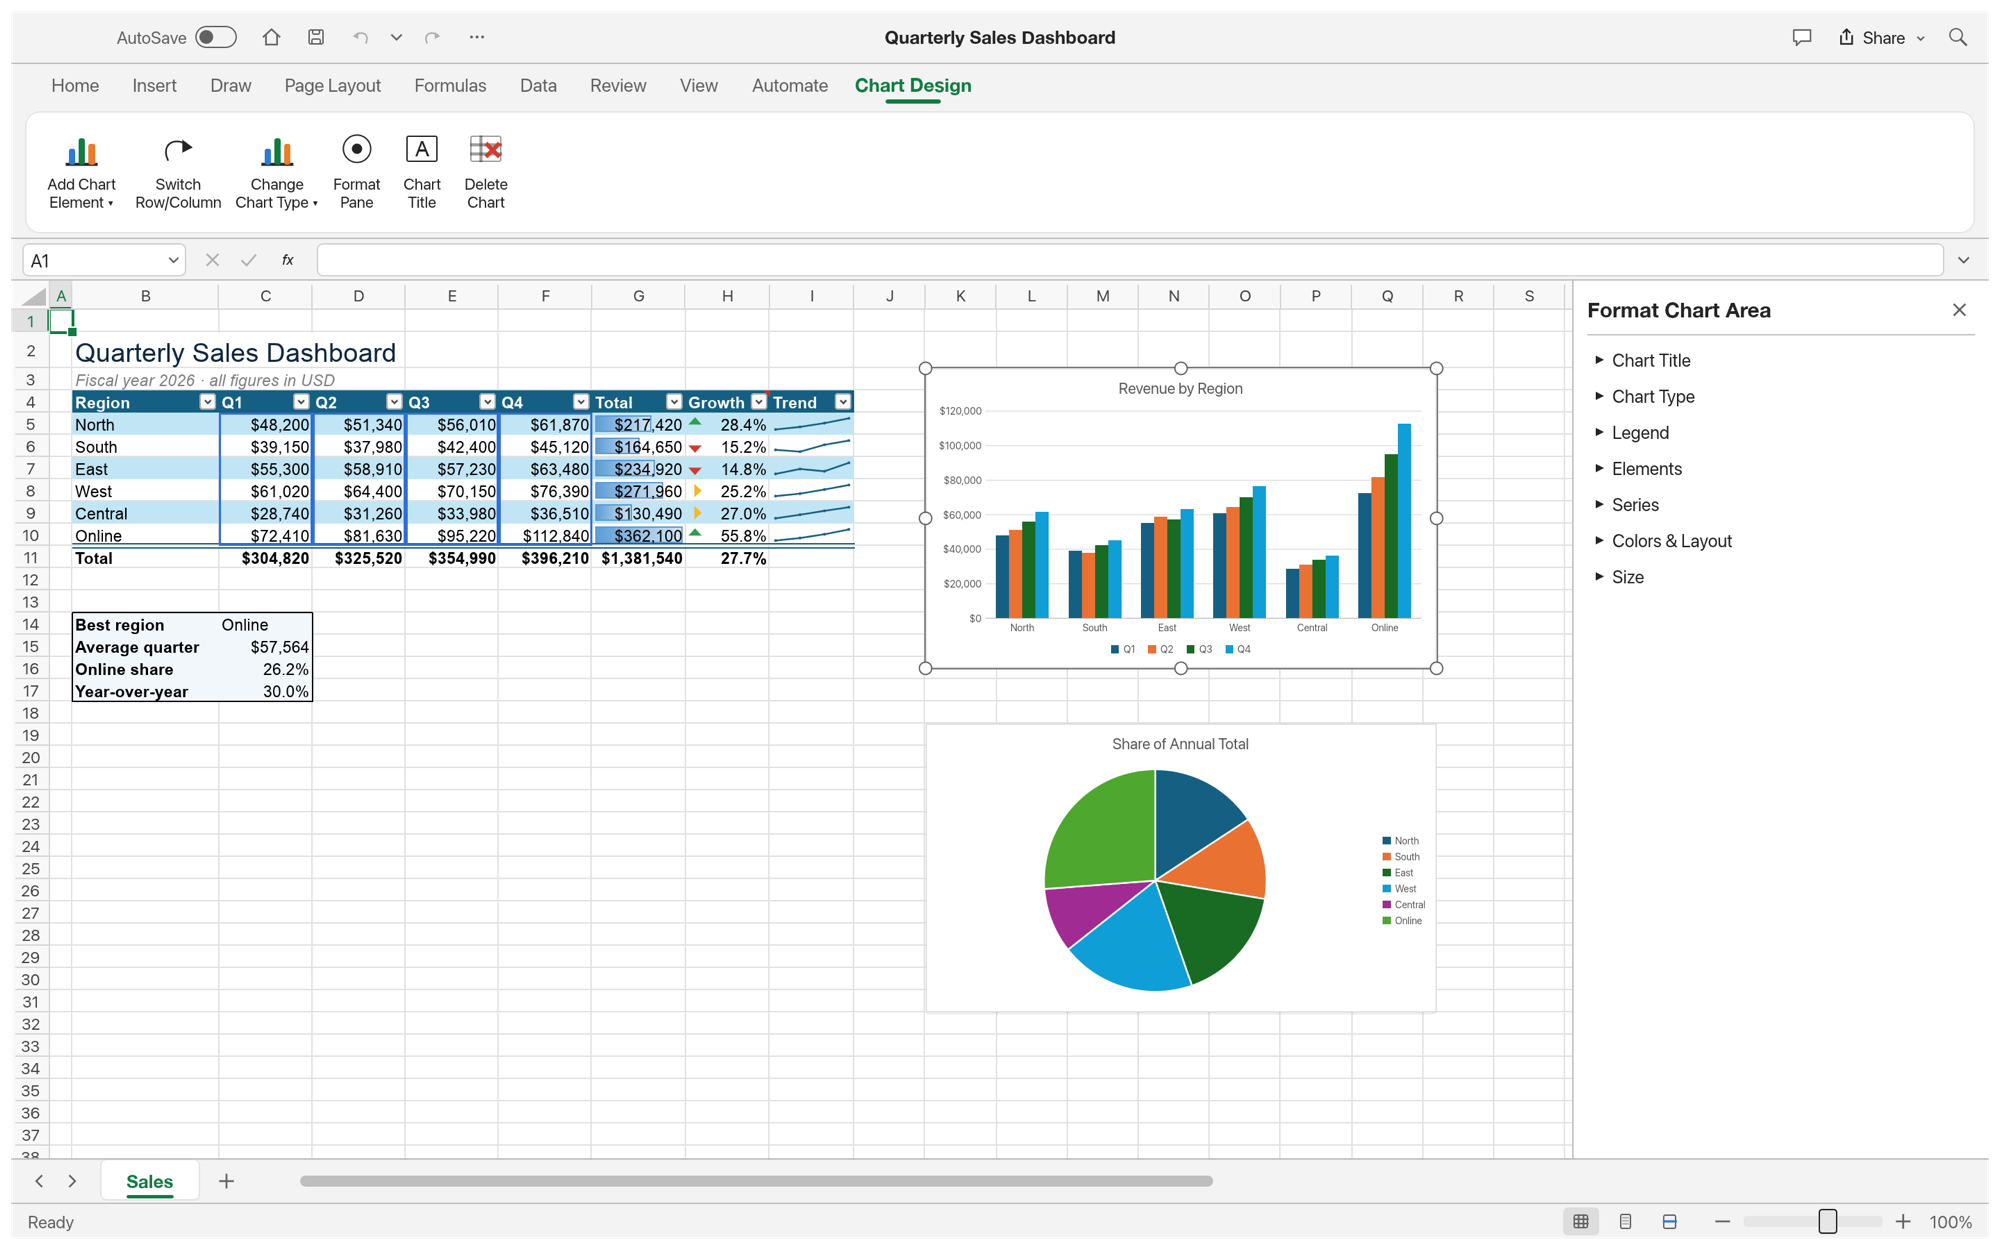
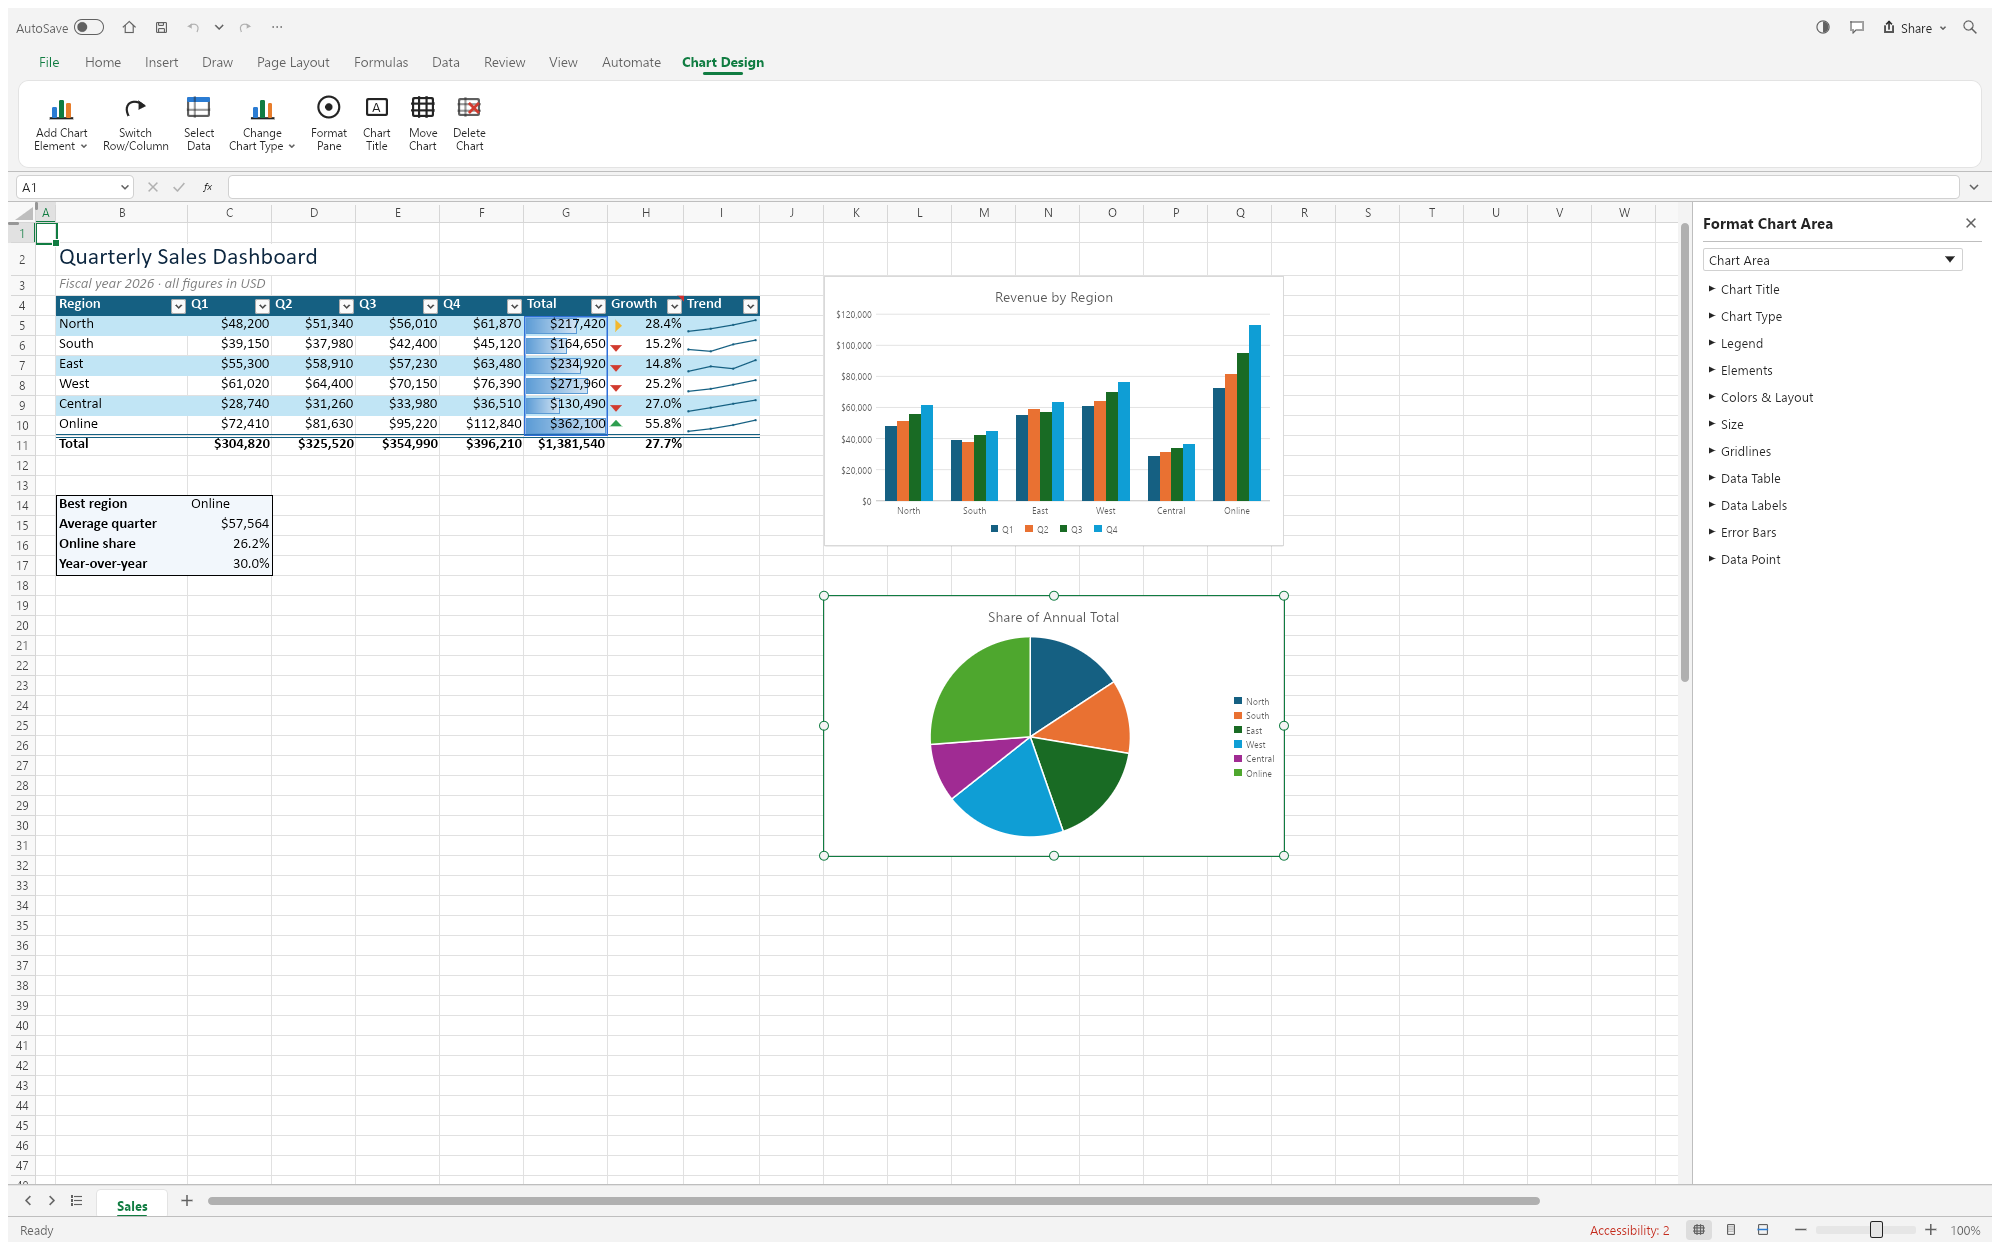
P23: re-render the README screenshots from the current build (2000x1250)

diff --git a/ATTRIBUTION.md b/ATTRIBUTION.md
@@ -26,10 +26,10 @@ Generated-in-code art is original and has no file to list: the UI icon set (`cra
 | `assets/app-icon/hicolor/scalable/apps/io.github.matt-qwq.cella.svg` | Cella contributors | original (hand-written SVG; `packaging/icons.sh`) | MIT OR Apache-2.0 (`assets/app-icon/LICENSE.txt`) | App icon, Linux scalable copy of cella.svg |
 | `assets/app-icon/README.md` | Cella contributors | original | MIT OR Apache-2.0 | Icon documentation |
 | `assets/app-icon/LICENSE.txt` | (licence text) | original | — | Licence of the app icon files |
-| `docs/images/hero-sales.png` | Cella contributors | screenshot of Cella rendered offscreen (`crates/ui-egui/examples/snapshot.rs`) showing an original sample workbook | MIT OR Apache-2.0 | README screenshot; no third-party content |
-| `docs/images/budget.png` | Cella contributors | screenshot of Cella rendered offscreen (`crates/ui-egui/examples/snapshot.rs`) showing an original sample workbook | MIT OR Apache-2.0 | README screenshot; no third-party content |
+| `docs/images/hero-sales.png` | Cella contributors | screenshot of Cella rendered offscreen (`crates/ui-egui/examples/snapshot.rs`) showing an original sample workbook | MIT OR Apache-2.0 | README screenshot; no third-party content; re-rendered 2026-11-18 at 2000x1250 (1000x625 logical) for the Cella identity |
+| `docs/images/budget.png` | Cella contributors | screenshot of Cella rendered offscreen (`crates/ui-egui/examples/snapshot.rs`) showing an original sample workbook | MIT OR Apache-2.0 | README screenshot; no third-party content; re-rendered 2026-11-18 at 2000x1250 (1000x625 logical) for the Cella identity |
 | `docs/images/grades-formulas.png` | Cella contributors | screenshot of Cella rendered offscreen (`crates/ui-egui/examples/snapshot.rs`) showing an original sample workbook | MIT OR Apache-2.0 | README screenshot; no third-party content. Re-rendered 2026-11-18: the 10-08 capture showed the Formulas tab's last groups clipped below the ribbon card, which the current layout no longer does |
-| `docs/images/dark-insert.png` | Cella contributors | screenshot of Cella rendered offscreen (`crates/ui-egui/examples/snapshot.rs`) showing an original sample workbook | MIT OR Apache-2.0 | README screenshot; no third-party content |
-| `docs/images/pivot.png` | Cella contributors | screenshot of Cella rendered offscreen (`crates/ui-egui/examples/snapshot.rs`) showing an original sample workbook | MIT OR Apache-2.0 | README screenshot; no third-party content |
-| `docs/images/format-chart.png` | Cella contributors | screenshot of Cella rendered offscreen (`crates/ui-egui/examples/snapshot.rs`) showing an original sample workbook | MIT OR Apache-2.0 | README screenshot; no third-party content |
-| `docs/images/page-break.png` | Cella contributors | screenshot of Cella rendered offscreen (`crates/ui-egui/examples/snapshot.rs`) showing an original sample workbook | MIT OR Apache-2.0 | README screenshot; no third-party content |
+| `docs/images/dark-insert.png` | Cella contributors | screenshot of Cella rendered offscreen (`crates/ui-egui/examples/snapshot.rs`) showing an original sample workbook | MIT OR Apache-2.0 | README screenshot; no third-party content; re-rendered 2026-11-18 at 2000x1250 (1000x625 logical) for the Cella identity |
+| `docs/images/pivot.png` | Cella contributors | screenshot of Cella rendered offscreen (`crates/ui-egui/examples/snapshot.rs`) showing an original sample workbook | MIT OR Apache-2.0 | README screenshot; no third-party content; re-rendered 2026-11-18 at 2000x1250 (1000x625 logical) for the Cella identity |
+| `docs/images/format-chart.png` | Cella contributors | screenshot of Cella rendered offscreen (`crates/ui-egui/examples/snapshot.rs`) showing an original sample workbook | MIT OR Apache-2.0 | README screenshot; no third-party content; re-rendered 2026-11-18 at 2000x1250 (1000x625 logical) for the Cella identity |
+| `docs/images/page-break.png` | Cella contributors | screenshot of Cella rendered offscreen (`crates/ui-egui/examples/snapshot.rs`) showing an original sample workbook | MIT OR Apache-2.0 | README screenshot; no third-party content; re-rendered 2026-11-18 at 2000x1250 (1000x625 logical) for the Cella identity |
